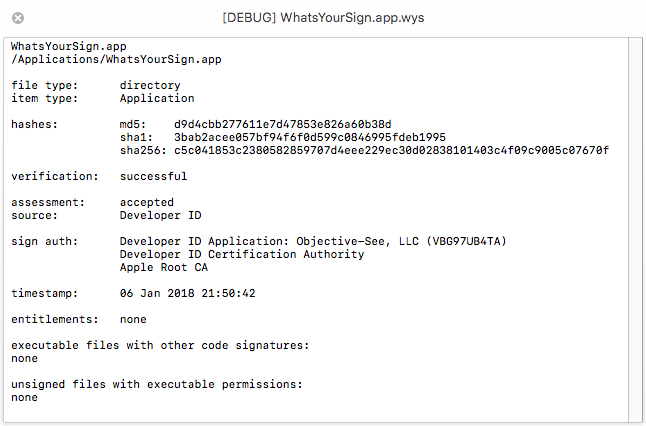
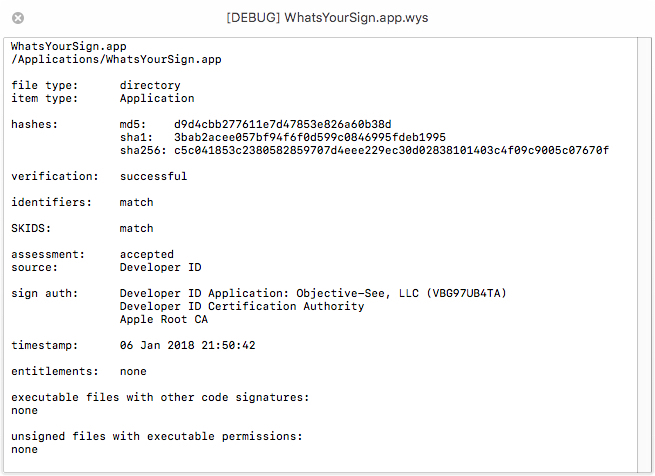
v1.0 beta: SKID comparions + updated screengrabs

Changed region(s): [[0.0, 0.0, 1.0, 0.9765], [0.0, 0.3357, 0.1548, 0.5798], [0.0, 0.6103, 0.1238, 0.6408]]

diff --git a/README.md b/README.md
@@ -11,13 +11,15 @@ Works with bundles (e.g. applications, extensions etc.), binaries/executables, d
 In addition to the default WhatsYourSign functionality, **wys** also:
 
 * prints the file size (B, MB, MiB; only for single files),
-* performs a comparison between a hash (checksum) stored in the clipboard and the hash calculated for the local file (only for single files),
+* compares a hash (checksum) stored in the clipboard with the hash calculated for the local file (only for single files),
 * verifies codesigning certificates against the current revocation list using `security`—
-  * *Note*: I'm assuming that it helps to set OCSP and CRL to "Best attempt" in **Keychain Access** > Preferences > Certificates—,
+  * *note*: I'm assuming that it helps to set OCSP and CRL to "Best attempt" in **Keychain Access** > Preferences > Certificates—,
+* compares the CFBundleIdentifier with the identifier in the code signature,
+* creates a local database of any scanned CFBundleIdentifier and codesigning SKID, and compares successive scan data with the saved data,
 * prints `spctl` assessment (packages: `install`; other: `execute`),
 * prints the codesigning timestamp or signing time (depending on the signature),
 * prints the signing timestamp and creator from a package's TOC, and
-* performs a deep scan of a bundle, similar to **RB AppChecker Lite**, to find
+* deep-scans a bundle, similar to **RB AppChecker Lite**, to find
   * executable files that are unsigned, or
   * that are codesigned differently from the main executable.
 
@@ -55,12 +57,14 @@ You can add the **wys** shell script to an **Automator** service/workflow, which
 
 ![grab1](https://github.com/JayBrown/wys-WhatsYourSign-shell-script-version/blob/master/img/grab_wys-app.jpg)
 
-#### Malware application with revoked certificate (KeRanger)
+#### Malware application (KeRanger) with revoked certificate and SKID mismatch
+*Notice the SKID mismatch, i.e. the SKID from the code signature used by the attacker differs from the original certificate by the Transmission developer.*
+
 *Notice the bogey RTF file, which is actually an executable part of the ransomware scheme.*
 
 ![grab2](https://github.com/JayBrown/wys-WhatsYourSign-shell-script-version/blob/master/img/grab_wys-malware.jpg)
 
-#### Malware application with fake codesigning certificate (OSX.CreativeUpdater)
+#### Malware application (OSX.CreativeUpdater) with fake codesigning certificate and SKID mismatch
 *Compare the main executable code signature (added by attacker) with the other signature (original by Mozilla), i.e. this is a legit app bundle within a malware app bundle to fool the user.*
 
 *Notice the bogey `script` file, which starts the download of the cryptominer malware.*
@@ -79,11 +83,11 @@ You can add the **wys** shell script to an **Automator** service/workflow, which
 
 ![grab10](https://github.com/JayBrown/wys-WhatsYourSign-shell-script-version/blob/master/img/grab_wys-app-mas.jpg)
 
-#### Application with untrusted third-party code signature
+#### Application with untrusted third-party code signature and missing SKID
 
 ![grab17](https://github.com/JayBrown/wys-WhatsYourSign-shell-script-version/blob/master/img/grab_wys-app-3rdparty.jpg)
 
-#### Adhoc-signed application
+#### Adhoc-signed application with missing SKID
 
 ![grab9](https://github.com/JayBrown/wys-WhatsYourSign-shell-script-version/blob/master/img/grab_wys-app-adhoc.jpg)
 
@@ -95,7 +99,7 @@ You can add the **wys** shell script to an **Automator** service/workflow, which
 
 ![grab16](https://github.com/JayBrown/wys-WhatsYourSign-shell-script-version/blob/master/img/grab_wys-kext.jpg)
 
-#### Codesigned command line interface
+#### Codesigned command line interface with initial SKID scan
 
 ![grab6](https://github.com/JayBrown/wys-WhatsYourSign-shell-script-version/blob/master/img/grab_wys-binary.jpg)
 
@@ -120,6 +124,7 @@ You can add the **wys** shell script to an **Automator** service/workflow, which
 ![grab14](https://github.com/JayBrown/wys-WhatsYourSign-shell-script-version/blob/master/img/grab_wys-xip-user.jpg)
 
 #### Application with cracked executables using proprietary code signatures
+*Notice that the main code signature is unchanged: the SKID comparison shows a match.*
 
 ![grab7](https://github.com/JayBrown/wys-WhatsYourSign-shell-script-version/blob/master/img/grab_wys-app-cracked.jpg)
 
